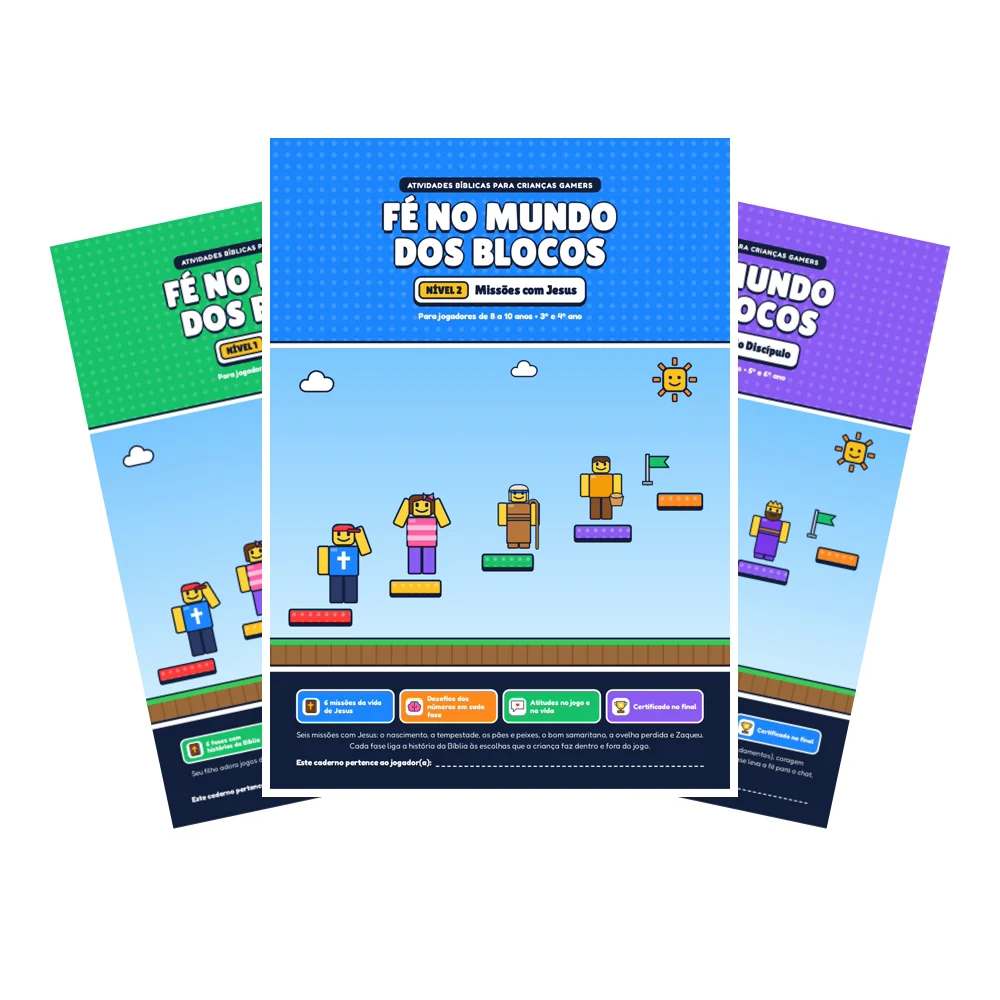
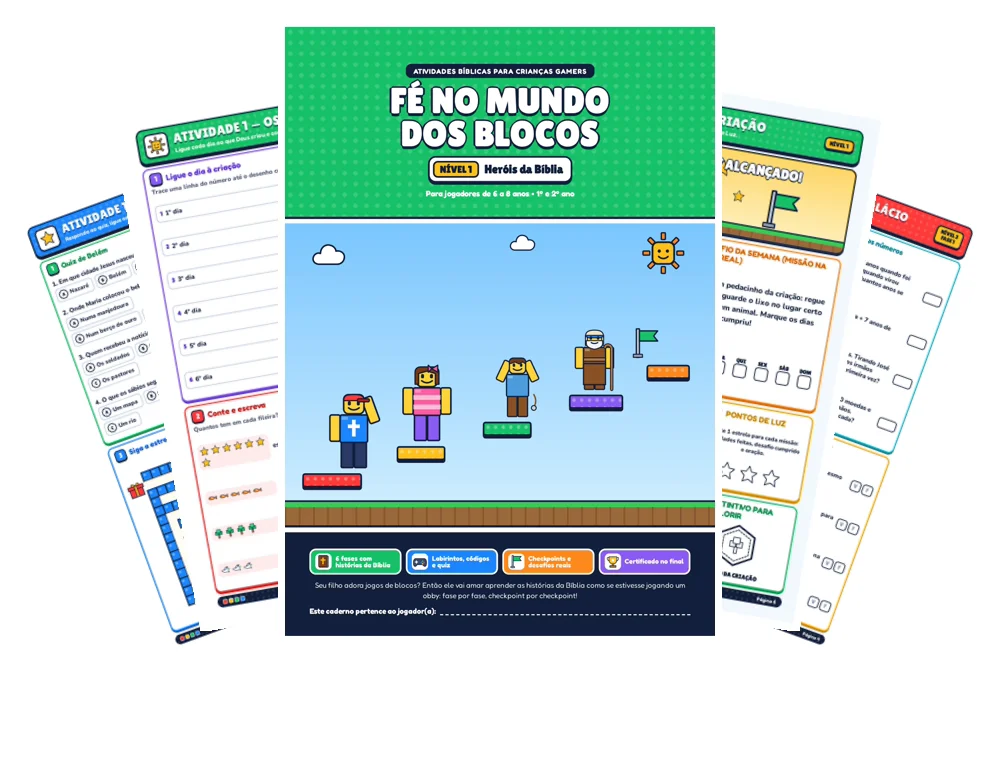
Leque com páginas variadas, carrossel automático, 6 bônus e novos preços
- Topo: leque com capa e páginas internas diferentes
- "Veja por dentro" gira sozinho e para com o mouse em cima
- Extras viram Bônus 04 a 06
- Imagem do combo com cadernos e bônus
- Básico de R$ 27,90 por R$ 19,90; Combo de R$ 49,90 por R$ 37,90

diff --git a/index.html b/index.html
@@ -83,7 +83,7 @@
     .hero h1 { font-size: clamp(1.9rem, 5.2vw, 3.2rem); max-width: 920px; margin: 0 auto 14px; }
     .hero h1 .destaque { color: var(--amarelo-texto); display: block; }
     .hero .apoio { font-weight: 700; font-size: 1.05rem; margin-bottom: 26px; }
-    .mockup { max-width: 560px; margin: 0 auto 28px; aspect-ratio: 1; }
+    .mockup { max-width: 680px; margin: 0 auto 28px; aspect-ratio: 1000 / 760; }
     .mockup img { width: 100%; height: 100%; object-fit: contain; filter: drop-shadow(0 20px 30px rgba(0,0,0,.25)); }
     .mockup .reservado { background: rgba(255,255,255,.1); border-color: rgba(255,255,255,.45); color: #fff; }
     .hero .texto { max-width: 700px; margin: 0 auto 22px; font-size: 1.04rem; opacity: .95; }
@@ -97,6 +97,9 @@
     .pagina { width: min(78vw, 340px); aspect-ratio: 3 / 4; border-radius: 16px; overflow: hidden; background: var(--branco); box-shadow: var(--sombra); }
     .pagina img { width: 100%; height: 100%; object-fit: cover; }
     .dica-arrastar { font-weight: 700; color: var(--azul-escuro); font-size: .92rem; }
+    /* carrossel que gira sozinho: sem "snap", senão ele trava a cada página */
+    .carrossel.automatico { scroll-snap-type: none; scrollbar-width: none; }
+    .carrossel.automatico::-webkit-scrollbar { display: none; }
     .preview { background: var(--branco); }
 
     /* ================= BENEFÍCIOS ================= */
@@ -262,7 +265,7 @@
       <span class="pilula azul">Veja por dentro</span>
       <h2>Conheça as páginas que seu filho vai jogar</h2>
       <p class="sub">Páginas reais da coleção: história da fase, atividades e o checkpoint de "missão concluída".</p>
-      <div class="carrossel">
+      <div class="carrossel automatico" id="carrosselPaginas">
         <div class="pagina"><img src="assets/pagina1.webp" alt="Página da coleção" loading="lazy" data-reservado="Página da coleção 1|assets/pagina1.webp"></div>
         <div class="pagina"><img src="assets/pagina2.webp" alt="Página da coleção" loading="lazy" data-reservado="Página da coleção 2|assets/pagina2.webp"></div>
         <div class="pagina"><img src="assets/pagina3.webp" alt="Página da coleção" loading="lazy" data-reservado="Página da coleção 3|assets/pagina3.webp"></div>
@@ -393,15 +396,15 @@
   <section class="extras centro">
     <div class="container">
       <h2>E não para por aí... tem mais!</h2>
-      <p class="sub">No Combo Completo você também recebe seis materiais extras para ampliar a prática e o engajamento.</p>
-      <span class="pilula amarela" style="margin-top:18px">🎁 6 materiais extras incluídos</span>
+      <p class="sub">No Combo Completo você também recebe seis bônus exclusivos para ampliar a prática e o engajamento.</p>
+      <span class="pilula amarela" style="margin-top:18px">🎁 6 bônus exclusivos incluídos</span>
       <div class="grade-extras">
-        <div class="card-e"><div class="capa"><img src="assets/extra1.webp" alt="100 Perguntas da Bíblia" loading="lazy" data-reservado="Capa extra 1|assets/extra1.webp"></div><div><small>EXTRA 01</small><h3>100 Perguntas da Bíblia</h3><p>O quiz da família em 3 níveis, do fácil ao chefão final, com 4 modos de jogo e gabarito.</p><span class="gratis">Grátis no combo</span></div></div>
-        <div class="card-e"><div class="capa"><img src="assets/extra2.webp" alt="Versículos Visuais" loading="lazy" data-reservado="Capa extra 2|assets/extra2.webp"></div><div><small>EXTRA 02</small><h3>Versículos Visuais</h3><p>24 cartões ilustrados para recortar, decorar e colecionar, cada um com uma missão.</p><span class="gratis">Grátis no combo</span></div></div>
-        <div class="card-e"><div class="capa"><img src="assets/extra3.webp" alt="Desafio 30 Dias do Jogador da Fé" loading="lazy" data-reservado="Capa extra 3|assets/extra3.webp"></div><div><small>EXTRA 03</small><h3>Desafio 30 Dias do Jogador da Fé</h3><p>Uma leitura e uma missão por dia para trocar o "só mais 5 minutos" por um mês de fé.</p><span class="gratis">Grátis no combo</span></div></div>
         <div class="card-e"><div class="capa"><img src="assets/bonus1.webp" alt="Mapa de Progresso da Fé" loading="lazy" data-reservado="Capa bônus 1|assets/bonus1.webp"></div><div><small>BÔNUS 01</small><h3>Mapa de Progresso da Fé</h3><p>Os 3 mundos e as 18 fases em um mapa para pendurar no quarto, com distintivos para colorir.</p><span class="gratis">Grátis no combo</span></div></div>
         <div class="card-e"><div class="capa"><img src="assets/bonus2.webp" alt="Cartões de Recompensa" loading="lazy" data-reservado="Capa bônus 2|assets/bonus2.webp"></div><div><small>BÔNUS 02</small><h3>Cartões de Recompensa</h3><p>A loja dos Pontos de Luz: 24 cartões de prêmio, do comum ao lendário, combinados em família.</p><span class="gratis">Grátis no combo</span></div></div>
         <div class="card-e"><div class="capa"><img src="assets/bonus3.webp" alt="Guia Rápido para os Pais" loading="lazy" data-reservado="Capa bônus 3|assets/bonus3.webp"></div><div><small>BÔNUS 03</small><h3>Guia Rápido para os Pais</h3><p>Rotina de 15 minutos por dia, frases prontas para birras de tela e dicas de segurança on-line.</p><span class="gratis">Grátis no combo</span></div></div>
+        <div class="card-e"><div class="capa"><img src="assets/bonus4.webp" alt="100 Perguntas da Bíblia" loading="lazy" data-reservado="Capa bônus 4|assets/bonus4.webp"></div><div><small>BÔNUS 04</small><h3>100 Perguntas da Bíblia</h3><p>O quiz da família em 3 níveis, do fácil ao chefão final, com 4 modos de jogo e gabarito.</p><span class="gratis">Grátis no combo</span></div></div>
+        <div class="card-e"><div class="capa"><img src="assets/bonus5.webp" alt="Versículos Visuais" loading="lazy" data-reservado="Capa bônus 5|assets/bonus5.webp"></div><div><small>BÔNUS 05</small><h3>Versículos Visuais</h3><p>24 cartões ilustrados para recortar, decorar e colecionar, cada um com uma missão.</p><span class="gratis">Grátis no combo</span></div></div>
+        <div class="card-e"><div class="capa"><img src="assets/bonus6.webp" alt="Desafio 30 Dias do Jogador da Fé" loading="lazy" data-reservado="Capa bônus 6|assets/bonus6.webp"></div><div><small>BÔNUS 06</small><h3>Desafio 30 Dias do Jogador da Fé</h3><p>Uma leitura e uma missão por dia para trocar o "só mais 5 minutos" por um mês de fé.</p><span class="gratis">Grátis no combo</span></div></div>
       </div>
     </div>
   </section>
@@ -425,9 +428,9 @@
             <li>PDF pronto para imprimir</li>
             <li>Acesso digital após a confirmação</li>
           </ul>
-          <div class="preco-de">de R$ 14,90</div>
+          <div class="preco-de">de R$ 27,90</div>
           <div class="preco-por">por apenas</div>
-          <div class="preco">R$ 9,90</div>
+          <div class="preco">R$ 19,90</div>
           <div class="preco-tipo">pagamento único</div>
           <!-- COLOQUE O LINK DE PAGAMENTO DO PLANO BÁSICO -->
           <a href="LINK_PLANO_BASICO" class="botao largo">Quero o plano básico</a>
@@ -445,17 +448,17 @@
             <li>18 fases para crianças de 6 a 12 anos</li>
             <li>Pontos de Luz, distintivos e certificado</li>
             <li>Gabarito e Guia da Coleção</li>
-            <li>100 Perguntas da Bíblia</li>
-            <li>Versículos Visuais</li>
-            <li>Desafio 30 Dias do Jogador da Fé</li>
             <li class="bonus">Mapa de Progresso da Fé</li>
             <li class="bonus">Cartões de Recompensa</li>
             <li class="bonus">Guia Rápido para os Pais</li>
+            <li class="bonus">100 Perguntas da Bíblia</li>
+            <li class="bonus">Versículos Visuais</li>
+            <li class="bonus">Desafio 30 Dias do Jogador da Fé</li>
             <li>Acesso digital e vitalício</li>
           </ul>
-          <div class="preco-de">de R$ 37,90</div>
+          <div class="preco-de">de R$ 49,90</div>
           <div class="preco-por">por apenas</div>
-          <div class="preco">R$ 29,90</div>
+          <div class="preco">R$ 37,90</div>
           <div class="preco-tipo">pagamento único</div>
           <!-- COLOQUE O LINK DE PAGAMENTO DO COMBO COMPLETO -->
           <a href="LINK_COMBO_COMPLETO" class="botao largo">Quero o combo completo</a>
@@ -489,7 +492,7 @@
         <details><summary>Quanto tempo por dia leva?</summary><p>Cerca de 15 minutos. O ritmo sugerido é uma fase por semana: um dia para a história, dois para as atividades e um para o checkpoint.</p></details>
         <details><summary>Serve para qualquer igreja?</summary><p>Sim. A coleção é interdenominacional: os Dez Mandamentos não são numerados e os versículos usam a tradução Almeida ou paráfrases marcadas como "adaptado".</p></details>
         <details><summary>Tem ligação oficial com algum jogo?</summary><p>Não. O visual de blocos é original e não há marcas, logos ou moedas de nenhum jogo. A coleção apenas usa a linguagem dos jogos que as crianças já amam.</p></details>
-        <details><summary>O que vem no Combo Completo?</summary><p>Os 3 cadernos da coleção mais 6 materiais: 100 Perguntas da Bíblia, Versículos Visuais, Desafio 30 Dias do Jogador da Fé, Mapa de Progresso da Fé, Cartões de Recompensa e Guia Rápido para os Pais, com acesso vitalício.</p></details>
+        <details><summary>O que vem no Combo Completo?</summary><p>Os 3 cadernos da coleção mais 6 bônus: Mapa de Progresso da Fé, Cartões de Recompensa, Guia Rápido para os Pais, 100 Perguntas da Bíblia, Versículos Visuais e Desafio 30 Dias do Jogador da Fé, com acesso vitalício.</p></details>
         <details><summary>Como recebo os arquivos?</summary><p>Logo após a confirmação do pagamento, você recebe no seu e-mail o link para baixar todos os PDFs.</p></details>
       </div>
       <a href="#planos" class="botao">Quero escolher meu plano</a>
@@ -508,6 +511,38 @@
       document.getElementById("dataHoje").textContent =
         String(d.getDate()).padStart(2, "0") + "/" + String(d.getMonth() + 1).padStart(2, "0") + "/" + d.getFullYear();
       document.getElementById("ano").textContent = d.getFullYear();
+    })();
+
+    // Carrossel "Veja por dentro": gira devagar sozinho e para quando a pessoa passa o mouse ou toca
+    (function () {
+      var c = document.getElementById("carrosselPaginas");
+      if (!c || window.matchMedia("(prefers-reduced-motion: reduce)").matches) return;
+      c.innerHTML += c.innerHTML; // duplica as páginas para o giro não ter fim
+      var VELOCIDADE = 35;        // pixels por segundo
+      var pos = 0, parado = false, retomar = null, antes = null;
+      function parar() { parado = true; clearTimeout(retomar); }
+      function voltar(espera) {
+        clearTimeout(retomar);
+        retomar = setTimeout(function () { pos = c.scrollLeft; parado = false; }, espera);
+      }
+      c.addEventListener("mouseenter", parar);
+      c.addEventListener("mouseleave", function () { voltar(300); });
+      c.addEventListener("touchstart", parar, { passive: true });
+      c.addEventListener("touchend", function () { voltar(2500); });
+      function girar(agora) {
+        var dt = antes === null ? 0 : Math.min(agora - antes, 100) / 1000; // limita o salto ao voltar para a aba
+        antes = agora;
+        if (!parado) {
+          pos += VELOCIDADE * dt;
+          var metade = c.scrollWidth / 2;
+          if (pos >= metade) pos -= metade;
+          c.scrollLeft = pos;
+        } else if (c.scrollLeft >= c.scrollWidth / 2) {
+          c.scrollLeft -= c.scrollWidth / 2; // mexendo à mão também não acaba
+        }
+        requestAnimationFrame(girar);
+      }
+      requestAnimationFrame(girar);
     })();
 
     // Imagem que ainda não existe vira um espaço reservado com o nome do arquivo esperado
